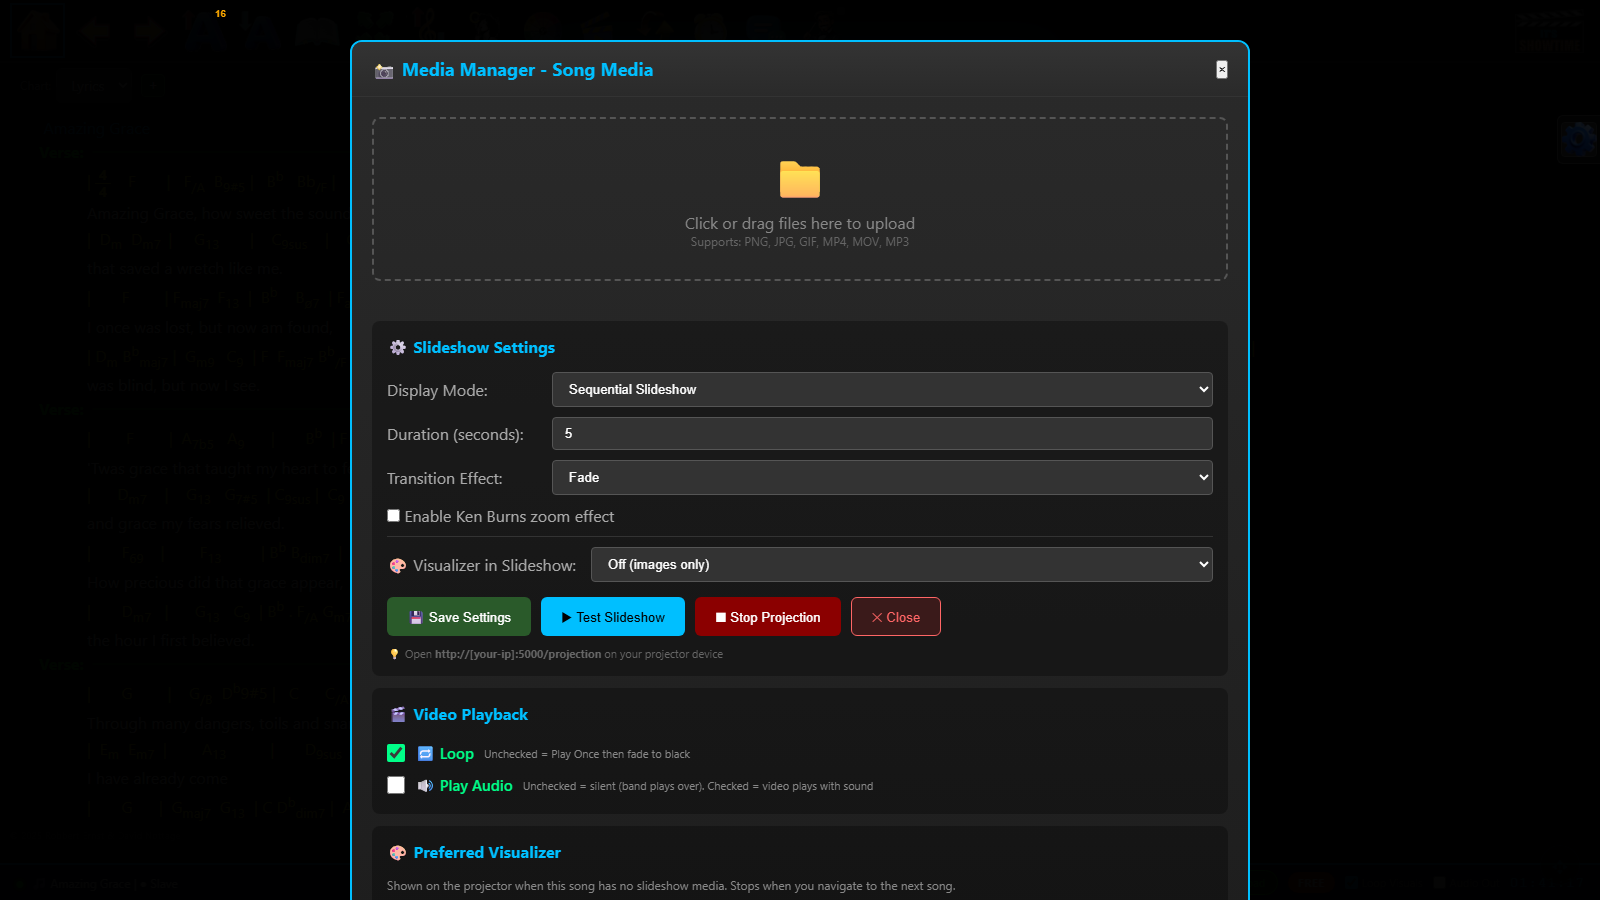
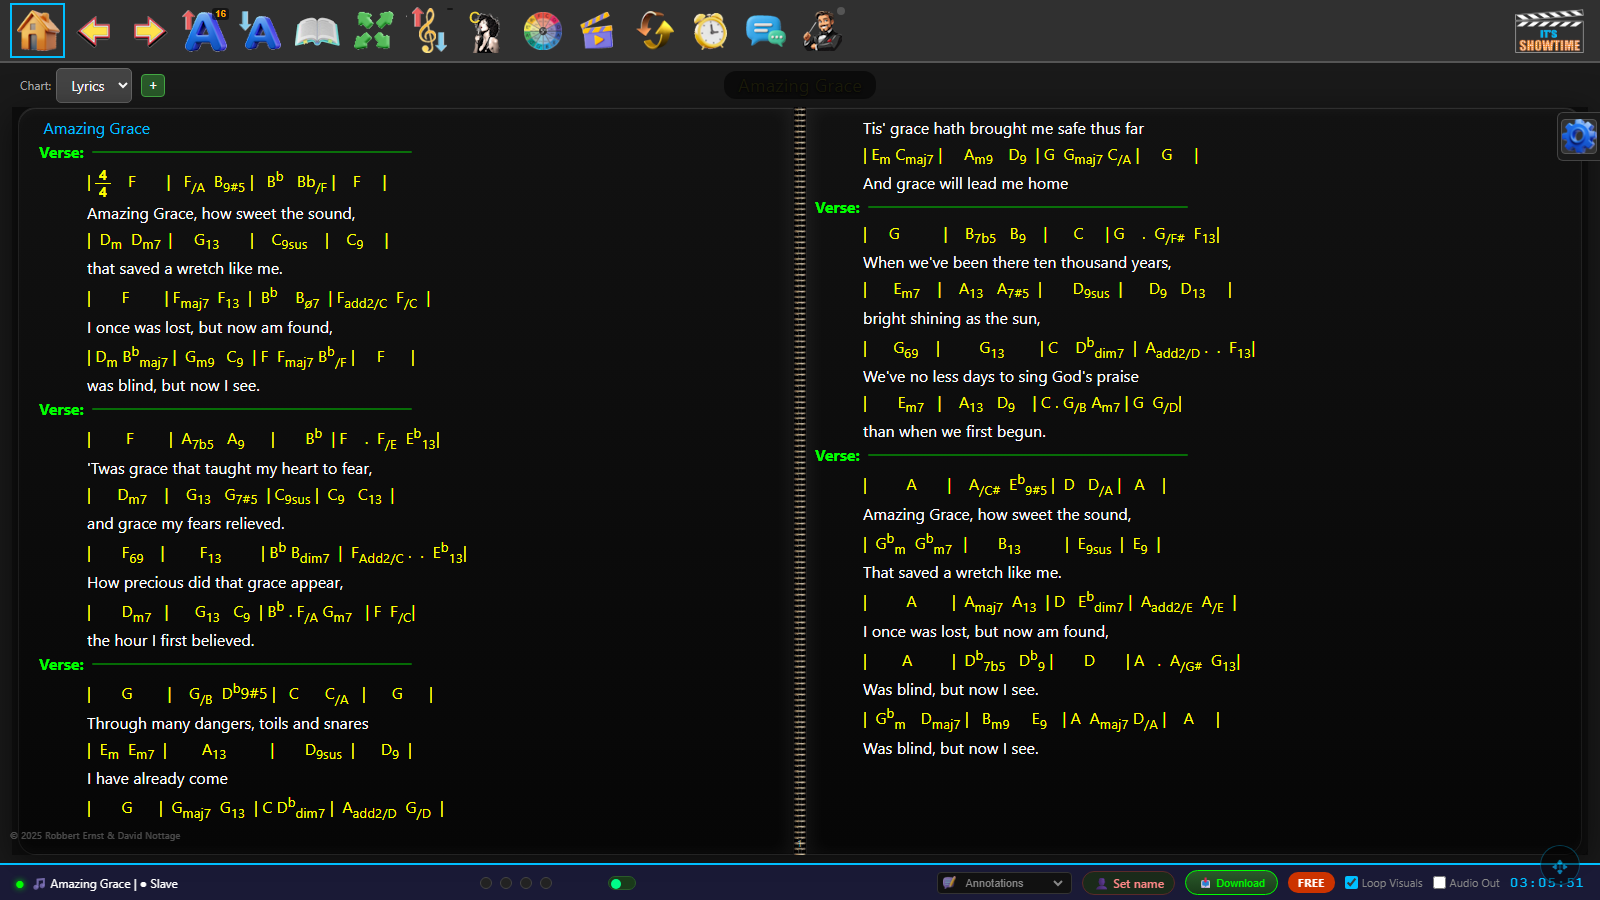
Simulator: guided 'find a song' storyline driven by the d-pad
A linear, on-rails tour (no 'infinite permutations'): the hint dot points
at one key at a time and only that key advances —
  song (↓) → setlist with current song highlighted (↑) → search + on-screen
  keyboard (→) → 'amazing' finds Amazing Grace (→) → loaded ✓.
Then it hands over to free toolbar exploration. New real screens captured:
picker_setlist / picker_search / picker_amazing. Also re-captured song2
(Amazing Grace) clean — the old one had the Media Manager left open over it
(same modal-not-closed bug as the earlier crew capture), which also fixes
the Previous/Next song cycle.

diff --git a/simulator.html b/simulator.html
@@ -109,8 +109,9 @@
 
   <div class="intro">
     <h1>Drive it like you're <span>on stage</span></h1>
-    <p>This is the real ShowTime toolbar. Use your arrow keys — just like the foot-pedal or keyboard you'd
-       use at a gig — to move along the icons and press one. (You can click them too.)</p>
+    <p>This is the real ShowTime interface. Follow the <span style="color:var(--cyan)">glowing dot</span> on the
+       nav pad — press the arrow it points to. We'll find and load a song first, then you can roam the whole toolbar.
+       Use your arrow keys, the on-screen pad, or click — just like the foot-pedal or touchscreen you'd use at a gig.</p>
     <div class="keyhelp">
       <span class="grp"><span class="kc">←</span><span class="kc">→</span> move along the toolbar</span>
       <span class="grp"><span class="kc">↑</span><span class="kc">↓</span> press the selected icon</span>
@@ -176,9 +177,28 @@
                     transpose_up:'static/sim/transpose_up.png', transpose_down:'static/sim/transpose_down.png',
                     font_bigger:'static/sim/font_bigger.png', font_smaller:'static/sim/font_smaller.png',
                     cof:'static/sim/cof.png', media:'static/sim/media.png', crew:'static/sim/crew.png',
-                    song2:'static/sim/song2.png', song3:'static/sim/song3.png' };
+                    song2:'static/sim/song2.png', song3:'static/sim/song3.png',
+                    picker_setlist:'static/sim/picker_setlist.png', picker_search:'static/sim/picker_search.png',
+                    picker_amazing:'static/sim/picker_amazing.png' };
   const SONGS = ['base', 'song2', 'song3'];   // America → Amazing Grace → Advance Australia Fair
   let songIdx = 0;
+
+  // ---- Guided storyline: find & load a song, then hand over to free toolbar play ----
+  // Each step shows a real screen and points the hint dot at the ONE key to press next,
+  // so the demo stays on rails (no "infinite permutations").
+  const STORY = [
+    { screen:'base',           hint:'down',  expect:'down',
+      title:'Find any song — fast', desc:"You're on a song mid-show. Press ↓ to open your library." },
+    { screen:'picker_setlist', hint:'up',    expect:'up',
+      title:'Your setlist', desc:'There’s your set, with the song you’re on highlighted. Press ↑ to search the whole library.' },
+    { screen:'picker_search',  hint:'right', expect:'right',
+      title:'Search + on-screen keyboard', desc:'Search opens with the keyboard up. Press → and ShowTime types the song for you.' },
+    { screen:'picker_amazing', hint:'right', expect:'right',
+      title:'There it is', desc:'“amazing” finds Amazing Grace instantly. Press → to open it.' },
+    { screen:'song2',          hint:null,    expect:null, done:true,
+      title:'Loaded and ready ✓', desc:'Amazing Grace is up — the whole search took four taps. Now explore the toolbar: ← → move, ↑ ↓ press.' },
+  ];
+  let storyMode = true, storyIdx = 0;
   Object.values(SCREENS).forEach(s => { const i = new Image(); i.src = s; });   // preload
 
   const frame = document.getElementById('frame');
@@ -222,7 +242,7 @@
     const h = document.createElement('div');
     h.className = 'hotspot'; h.title = ic.title;
     h.style.left = ic.x + '%'; h.style.top = Y + '%'; h.style.width = W + '%'; h.style.height = H + '%';
-    h.addEventListener('click', () => { focusIdx = i; press(i, 'up'); frame.focus(); });
+    h.addEventListener('click', () => { if (storyMode) return; focusIdx = i; press(i, 'up'); frame.focus(); });
     hotspots.appendChild(h);
   });
 
@@ -242,9 +262,30 @@
   function clearHint() { document.querySelectorAll('.tn-hint').forEach(d => d.remove()); }
   function showHint(dir) { clearHint(); const el = tnCell[dir]; if (!el) return; const d = document.createElement('span'); d.className = 'tn-hint'; el.appendChild(d); }
 
+  // ---- Guided story renderer ----
+  function showStoryStep() {
+    const s = STORY[storyIdx];
+    screen.src = SCREENS[s.screen];
+    ring.hidden = true;                         // no toolbar ring during the story
+    capNum.textContent = (storyIdx + 1);
+    capTitle.textContent = s.title;
+    capDesc.textContent = s.desc;
+    if (s.hint) showHint(s.hint); else clearHint();
+    if (s.done) storyMode = false;              // last step → hand over to free toolbar play
+  }
+  function nudgeHint(dir) { showHint(dir); }     // wrong key: re-trigger the dot's pulse
+
   // Single entry point for every direction — keyboard, d-pad tap, or hotspot all go through here.
   function drive(dir) {
     openPad(); tnToggle.classList.remove('invite');
+    if (storyMode) {                             // on rails: only the suggested key advances
+      const s = STORY[storyIdx];
+      glowCell(dir);
+      if (dir === s.expect) { storyIdx++; showStoryStep(); }
+      else nudgeHint(s.hint);
+      return;
+    }
+    // ---- free toolbar exploration ----
     if (dir === 'left')       moveFocus(-1);
     else if (dir === 'right') moveFocus(1);
     else if (dir === 'up')    { if (focusIdx < 0) moveFocus(1); else press(focusIdx, 'up'); }
@@ -262,8 +303,10 @@
   document.addEventListener('keydown', e => { if (KEYDIR[e.key]) { e.preventDefault(); drive(KEYDIR[e.key]); } });
   frame.addEventListener('keydown', e => { if (e.key === 'Enter' || e.key === ' ') { e.preventDefault(); drive('enter'); } });
 
-  // On load the pad "wakes up": it grows, breathes, and a hint dot suggests the first move.
-  setTimeout(() => { openPad(); tnToggle.classList.add('invite'); showHint('right'); }, 1100);
+  // Start the guided story (sets the opening screen, caption and first hint dot).
+  showStoryStep();
+  // On load the pad "wakes up": it grows, breathes, and the hint dot suggests the first move.
+  setTimeout(() => { openPad(); tnToggle.classList.add('invite'); }, 1100);
 
   frame.focus();
 </script>
